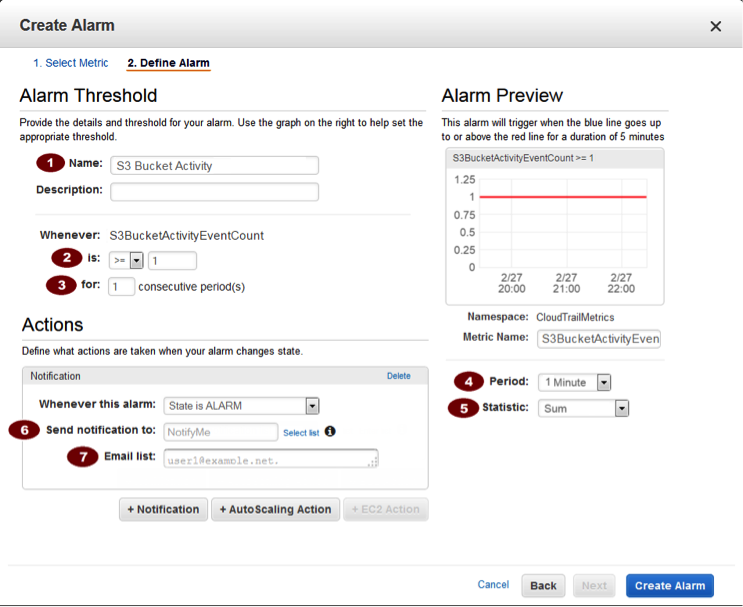
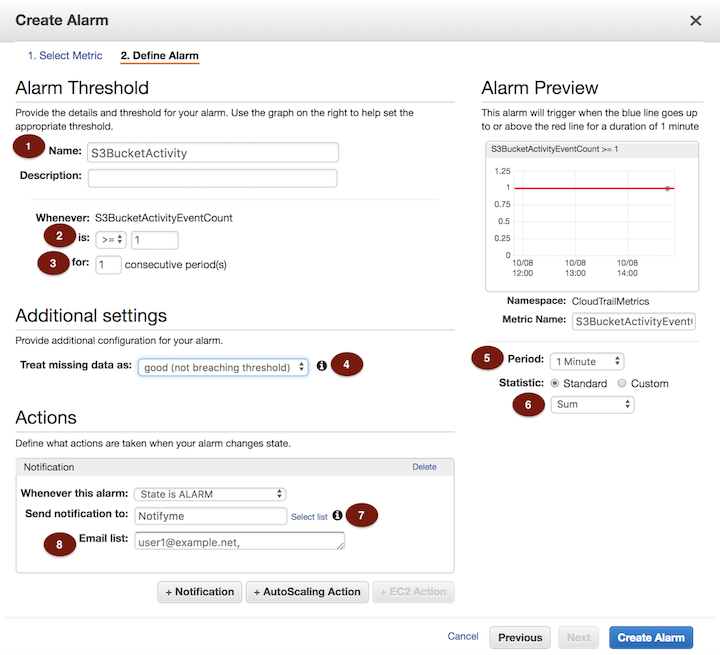
Update mod1 README

diff --git a/SID402Workshop/1_MonitoringSecEvents/README.md b/SID402Workshop/1_MonitoringSecEvents/README.md
@@ -181,19 +181,25 @@ CloudTrail uses a CloudWatch Logs log group as a delivery endpoint for log event
 
 3. For the **Period** value, select **1 Minute**.
 
-<We may want to add a note treat missing data as good>
+4. In the **Treat missing data as:** box, Click **good (not breaching threshold)**.
 
-4. In the **Actions** box, Click **New list** for **Send notification to:**, provide a topic name such as **Notifyme** and provide your email address. Refer to diagrams below.
+5. In the **Actions** box, Click **Select list**, **New list** for **Send notification to:**, provide a topic name such as **NotifyMe** and provide your email address. Refer to diagrams below.
+
+<p/>
 
     ![](./images/CreateAlarm.png)
 
+    <p/>
+
     ![](./images/SettingValues.png)
 
-5. When you are done, click **Create Alarm**.
+<p/>
 
-6. You will receive an email from **AWS Notification** at the email address provided in the **Email list**. Click on **Confirm subscription** link provided in the email.
+6. When you are done, click **Create Alarm**.
 
-7. Click on **View Alarm**.
+7. You will receive an email from **AWS Notification** at the email address provided in the **Email list**. Click on **Confirm subscription** link provided in the email.
+
+8. Click on **View Alarm**.
 </details>
 
 ### 3. Create Security Alarms Using AWS CloudFormation
